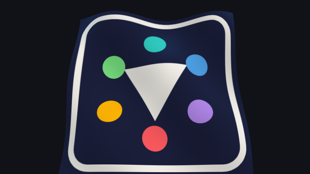
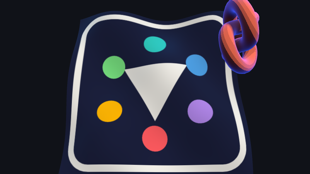
Gallery: Lights and Editor cards; the page grows with its rows
Adds the two newer examples to the generator (their artboards become
components so they can be nested), re-renders the thumbnails, and sizes
the page from the number of card rows so the footer stays below them.

Changed region(s): [[0.6968, 0.0, 0.8419, 0.431]]

diff --git a/gallery/make_gallery.py b/gallery/make_gallery.py
@@ -60,6 +60,8 @@ EXAMPLES = [
     ("Clipping", "0:1900", "0:1907", "Clipping planes, stencil caps and clipped shadows.", True),
     ("Shadows", "0:1300", "0:1307", "Directional, spot and point light shadow maps, cut-outs included.", True),
     ("PostProcessing", "0:1400", "0:1407", "EffectComposer: bloom, ACES tone mapping and FXAA.", True),
+    ("Lights", "0:2000", "0:2007", "Area lights, a street of lamps, a light probe and cascaded moonlight.", True),
+    ("Editor", "0:2100", "0:2107", "Helpers for grids, axes, lights, cameras, boxes, planes and normals.", True),
     ("Benchmark", "0:1500", "0:1507", "1000 meshes and 10000 instances, all moving.", False),
 ]
 DEFAULT = 0  # FirstScene plays on load
@@ -119,7 +121,7 @@ FEATURES = [
 
 # ------------------------------------------------------------------ layout
 
-W, H = 1920, 1480
+W = 1920
 M = 120                      # page margin
 LX, LW = M, 600              # left column
 RX, RW = 800, 1000           # right column
@@ -128,6 +130,9 @@ STAGE_H = 640
 ROW2 = 960
 CARD_W, THUMB_H, CARD_H, GAP = 155, 87, 117, 14
 COLS = 6
+# Tall enough for every row of cards, with the footer below them.
+_rows = (len(EXAMPLES) + COLS - 1) // COLS
+H = max(1480, ROW2 + 30 + _rows * (CARD_H + GAP) + 110)
 
 # Theme properties on the kit's global RiveTheme view model (2:1).
 BG, FG, SURFACE, MUTED, FAINT, ACCENT = "2:2", "2:3", "2:4", "2:5", "2:6", "2:7"
